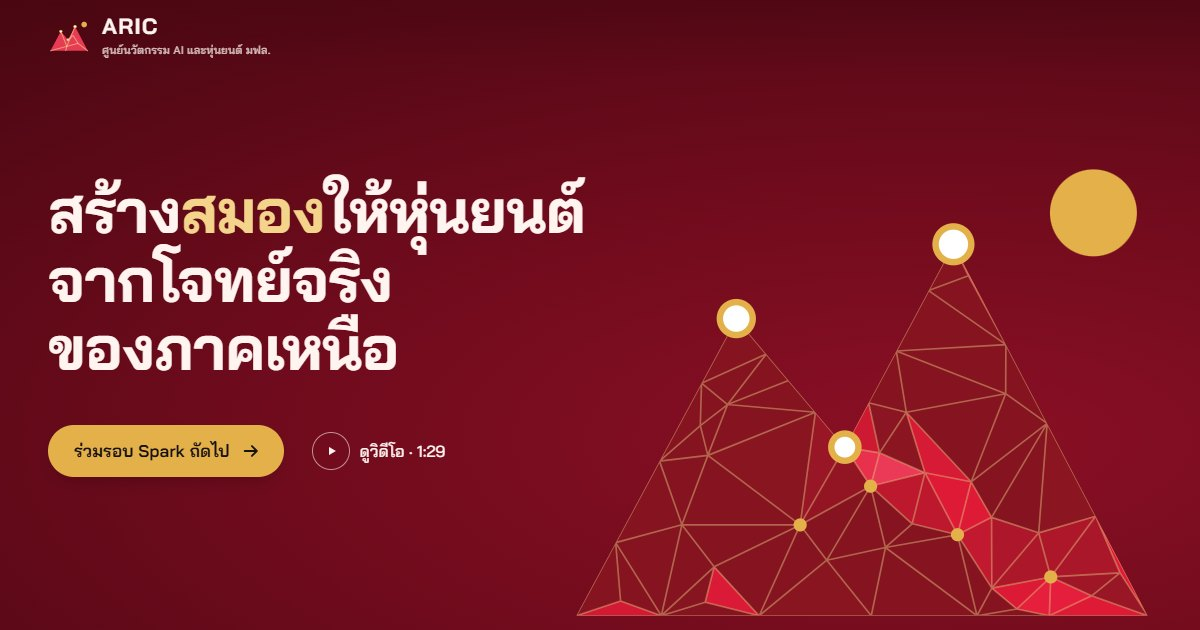
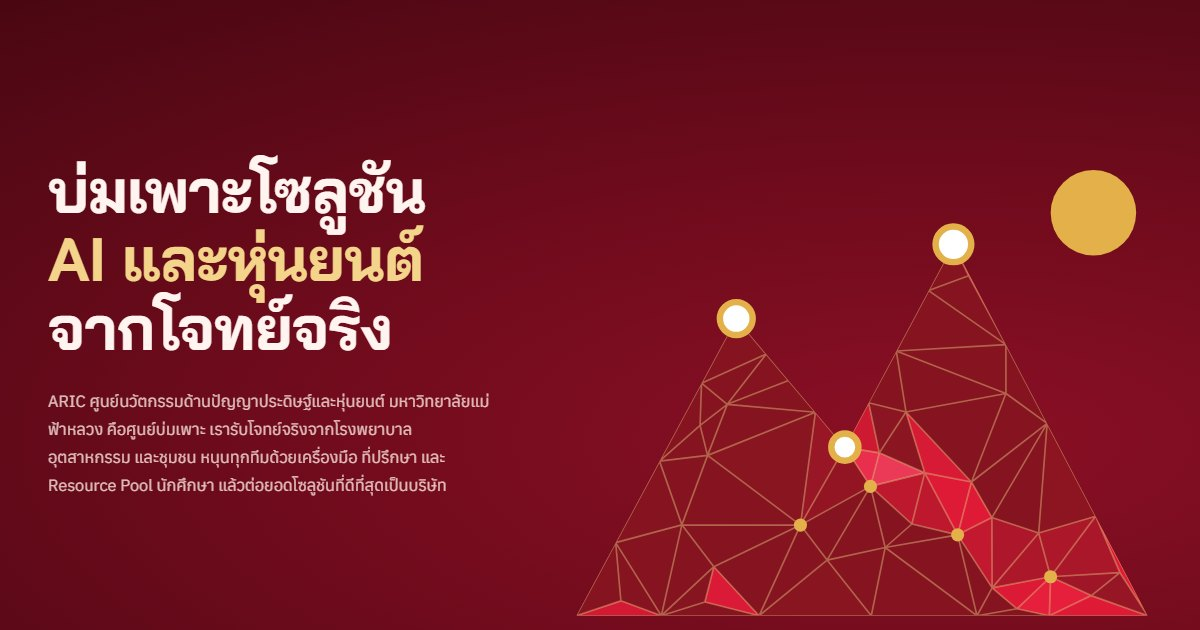
Present ARIC as an incubator for AI & robotics solutions; drop 'the North'; founders section shows tools + Intern Program 2027 support network instead of funding and equity figures
Claude-Session: https://claude.ai/code/session_01K1eXoZs1rxog3XWAKmChgJ

Changed region(s): [[0.0308, 0.2413, 0.4933, 0.7841], [0.0308, 0.0302, 0.2158, 0.0905], [0.8942, 0.3921, 0.925, 0.4222]]

diff --git a/index.html b/index.html
@@ -4,8 +4,8 @@
 <meta charset="utf-8">
 <meta name="viewport" content="width=device-width, initial-scale=1">
 <title>ARIC — ศูนย์นวัตกรรมด้านปัญญาประดิษฐ์และหุ่นยนต์ มหาวิทยาลัยแม่ฟ้าหลวง</title>
-<meta name="description" content="ARIC สร้างสมองให้หุ่นยนต์จากโจทย์จริงของภาคเหนือ — ศูนย์นวัตกรรมด้านปัญญาประดิษฐ์และหุ่นยนต์ มหาวิทยาลัยแม่ฟ้าหลวง เชียงราย">
-<meta property="og:title" content="ARIC — สร้างสมองให้หุ่นยนต์ จากโจทย์จริงของภาคเหนือ">
+<meta name="description" content="ARIC ศูนย์บ่มเพาะโซลูชัน AI และหุ่นยนต์จากโจทย์จริง — ศูนย์นวัตกรรมด้านปัญญาประดิษฐ์และหุ่นยนต์ มหาวิทยาลัยแม่ฟ้าหลวง เชียงราย">
+<meta property="og:title" content="ARIC — ศูนย์บ่มเพาะโซลูชัน AI และหุ่นยนต์ จากโจทย์จริง">
 <meta property="og:description" content="ศูนย์นวัตกรรมด้านปัญญาประดิษฐ์และหุ่นยนต์ มหาวิทยาลัยแม่ฟ้าหลวง · รอบ Spark → Forge → Launch ทุก 4 เดือน">
 <meta property="og:image" content="https://cnacha-mfu.github.io/aric/assets/og.jpg">
 <meta property="og:type" content="website">
@@ -193,22 +193,42 @@ input[type=range]::-moz-range-thumb{width:22px;height:22px;border-radius:50%;bac
 
 /* founders */
 .founders{background:var(--wash)}
-.f-grid{display:grid;grid-template-columns:1.1fr 1fr;gap:clamp(40px,6vw,90px);margin-top:60px}
-.gets{list-style:none;margin:0;padding:0}
-.gets li{display:grid;grid-template-columns:34px 1fr;gap:14px;padding:16px 0;border-top:1px solid var(--rule)}
-.gets li:last-child{border-bottom:1px solid var(--rule)}
-.gets svg{width:30px;height:22px;margin-top:5px}
-.gets b{display:block;font:600 18px/1.4 var(--disp)}
-.gets span{font-size:15.5px;color:var(--ink2);line-height:1.6}
-.share{margin-top:44px}
-.share h3{font-size:22px}
-.share .bar{display:flex;height:54px;gap:3px;margin-top:16px;border-radius:10px;overflow:hidden;font:600 14px/1 var(--disp)}
-.share .bar div{display:flex;align-items:center;justify-content:center;transform-origin:left;transition:transform 1.1s var(--ease)}
-.share .bar div:nth-child(1){flex:15;background:var(--red);color:var(--on-red)}
-.share .bar div:nth-child(2){flex:65;background:var(--gold);color:var(--ink)}
-.share .bar div:nth-child(3){flex:20;background:var(--ink2);color:var(--on-red)}
-.share.pre .bar div{transform:scaleX(0)}
-.share p{font-size:15.5px;color:var(--ink2);line-height:1.65;margin-top:14px}
+.f-grid{display:grid;grid-template-columns:1.25fr 1fr;gap:clamp(40px,6vw,90px);margin-top:60px}
+.sup{position:relative}
+.sup>svg{width:100%;height:auto;display:block;overflow:visible}
+.sup .edge{fill:none;stroke:#D9CFCB;stroke-width:1.6;transition:stroke .35s,stroke-width .35s}
+.sup .mesh{fill:none;stroke:#E7E1DE;stroke-width:1.2}
+.sup .edge.on{stroke:var(--gold);stroke-width:3}
+.sup .spark{fill:none;stroke:var(--gold-l);stroke-width:5;stroke-linecap:round;stroke-dasharray:14 900;stroke-dashoffset:14;opacity:0}
+.sup .edge.on+.spark{opacity:1;animation:sup-run 1.1s cubic-bezier(.16,1,.3,1) infinite}
+@keyframes sup-run{to{stroke-dashoffset:-260}}
+.sup .node{cursor:pointer;outline:none}
+.sup .node circle{transition:r .35s cubic-bezier(.16,1,.3,1),stroke-width .3s}
+.sup .node text{font:500 15px var(--disp);fill:var(--ink2);transition:fill .3s}
+.sup .node:hover text,.sup .node.on text{fill:var(--ink)}
+.sup .node.on circle{r:13}
+.sup .node:focus-visible circle{stroke:var(--gold);stroke-width:4}
+.sup .g-tools circle{fill:var(--gold)}
+.sup .g-pool circle{fill:#fff;stroke:var(--red);stroke-width:3}
+.sup .g-people circle{fill:var(--red-d)}
+.sup .glabel{font:600 13px var(--mono);letter-spacing:.06em;text-transform:uppercase}
+.sup .hub-t{font:700 20px var(--disp);fill:var(--ink)}
+.sup .hub-s{font:400 13px var(--body);fill:var(--mute)}
+.sup .dim .node:not(.in) text{fill:#B9AEA9}
+.sup .dim .node:not(.in) circle{opacity:.35}
+.sup-groups{display:flex;flex-wrap:wrap;gap:8px;margin-top:6px}
+@media (max-width:600px){.sup .node text{display:none}.sup .node circle{r:13}.sup .node.on circle{r:17}.sup .hub-t{font-size:24px}}
+.sup-groups button{display:flex;align-items:center;gap:8px;font:600 14.5px/1 var(--disp);color:var(--ink2);background:var(--paper);border:1.5px solid var(--rule);border-radius:999px;padding:10px 14px;cursor:pointer;transition:border-color .2s,color .2s,background .2s}
+.sup-groups button i{width:12px;height:12px;border-radius:50%;display:block}
+.sup-groups button[aria-pressed="true"]{border-color:var(--ink);color:var(--ink)}
+.sup-cap{margin-top:18px;min-height:96px;padding:18px 20px;border-radius:14px;background:var(--paper);border:1px solid var(--rule)}
+.sup-cap .k{font:600 12.5px var(--mono);letter-spacing:.06em;color:var(--red)}
+.sup-cap b{display:block;font:600 20px/1.35 var(--disp);margin-top:4px}
+.sup-cap p{font-size:15.5px;line-height:1.6;color:var(--ink2);margin-top:4px}
+.pool-cta{display:flex;flex-wrap:wrap;align-items:center;justify-content:space-between;gap:12px 20px;margin-top:22px;padding:18px 20px;border-radius:14px;background:var(--field);color:var(--on-red)}
+.pool-cta p{font-size:15.5px;line-height:1.55;color:var(--on-red2)}
+.pool-cta p b{color:var(--on-red);font:600 17px/1.4 var(--disp);display:block}
+.pool-cta .btn{padding:14px 20px;font-size:15.5px}
 .form{background:var(--paper);border-radius:18px;padding:clamp(24px,3vw,38px);box-shadow:0 30px 60px -40px rgba(0,0,0,.28);align-self:start;position:sticky;top:96px}
 .form h3{font-size:26px;line-height:1.3}
 .form .next{display:flex;align-items:center;gap:10px;margin-top:10px;font-size:15px;color:var(--ink2)}
@@ -230,8 +250,6 @@ fieldset.field{border:0;padding:0;margin:18px 0 0}
 .chips input:focus-visible+span{outline:3px solid var(--gold);outline-offset:2px}
 .form .btn{margin-top:24px;width:100%;justify-content:center}
 .form small{display:block;margin-top:12px;font-size:13px;color:var(--mute);line-height:1.5}
-.targets{margin-top:44px;font-size:15px;color:var(--ink2);line-height:1.7}
-.targets b{font-family:var(--mono);font-weight:500;color:var(--red-d)}
 @media (max-width:900px){.f-grid{grid-template-columns:1fr}.form{position:static}}
 
 /* building */
@@ -295,7 +313,7 @@ footer p{line-height:1.6}
   #engine{height:auto}.engine-sticky{position:relative;height:auto;padding-bottom:60px}
   .engine-body{grid-template-rows:auto}.stage-canvas{height:46vh}
   .stage{opacity:1}.stages .stage:not(.on){display:block}
-  .share.pre .bar div{transform:none}
+  .sup .spark{display:none}
 }
 </style>
 </head>
@@ -348,8 +366,8 @@ footer p{line-height:1.6}
   <canvas id="heroCanvas" aria-label="ภูเขา ARIC ที่มีชีวิต แตะเพื่อเพิ่มโจทย์" role="img"></canvas>
   <div class="wrap">
     <div class="copy">
-      <h1 data-en="<span class=ln>We build the <em>brains</em></span> <span class=ln>robots need —</span> <span class=ln>from real problems</span> <span class=ln>in the North</span>"><span class="ln">สร้าง<em>สมอง</em>ให้หุ่นยนต์</span> <span class="ln">จากโจทย์จริง</span> <span class="ln">ของภาคเหนือ</span></h1>
-      <p class="lede" data-en="ARIC, the AI &amp; Robotics Innovation Center at Mae Fah Luang University, turns real problems from hospitals, industry and communities into AI that people use — and then into companies.">ARIC ศูนย์นวัตกรรมด้านปัญญาประดิษฐ์และหุ่นยนต์ มหาวิทยาลัยแม่ฟ้าหลวง เปลี่ยนโจทย์จริงของโรงพยาบาล อุตสาหกรรม และชุมชน ให้เป็น AI ที่คนใช้จริง แล้วต่อยอดเป็นบริษัท</p>
+      <h1 data-en="<span class=ln>We incubate</span> <span class=ln><em>AI &amp; robotics</em></span> <span class=ln>solutions from</span> <span class=ln>real problems</span>"><span class="ln">บ่มเพาะโซลูชัน</span> <span class="ln"><em>AI และหุ่นยนต์</em></span> <span class="ln">จากโจทย์จริง</span></h1>
+      <p class="lede" data-en="ARIC, the AI &amp; Robotics Innovation Center at Mae Fah Luang University, is an incubator. We take real problems from hospitals, industry and communities, back each team with tools, mentors and a pool of student talent, and grow the best solutions into companies.">ARIC ศูนย์นวัตกรรมด้านปัญญาประดิษฐ์และหุ่นยนต์ มหาวิทยาลัยแม่ฟ้าหลวง คือศูนย์บ่มเพาะ เรารับโจทย์จริงจากโรงพยาบาล อุตสาหกรรม และชุมชน หนุนทุกทีมด้วยเครื่องมือ ที่ปรึกษา และ Resource Pool นักศึกษา แล้วต่อยอดโซลูชันที่ดีที่สุดเป็นบริษัท</p>
       <div class="actions">
         <a class="btn btn-gold" href="#join"><span data-en="Join the next Spark round">ร่วมรอบ Spark ถัดไป</span><svg aria-hidden="true"><use href="#i-arrow"/></svg></a>
         <a class="link-play" href="#film"><i><svg aria-hidden="true"><use href="#i-play"/></svg></i><span data-en="Watch the film · 1:29">ดูวิดีโอ · 1:29</span></a>
@@ -402,7 +420,7 @@ footer p{line-height:1.6}
       <div>
         <ol class="stages" id="stages">
           <li class="stage on"><h3>Spark <span class="mono" data-en="1 MONTH">1 เดือน</span></h3><p data-en="<b>Ignite.</b> An open hackathon on real problems from hospitals, industry and communities; three teams are selected.">จุดประกายไอเดีย: แฮกกาธอนเปิดรับโจทย์จริงจากโรงพยาบาล อุตสาหกรรม และชุมชน <b>คัดเหลือ 3 ทีม</b></p></li>
-          <li class="stage"><h3>Forge <span class="mono" data-en="2 MONTHS">2 เดือน</span></h3><p data-en="<b>฿100,000 per team</b> plus industry mentors, a tech PM, NVIDIA DGX and AI coding agents to build an MVP and test it with real users.">หลอมไอเดียเป็นของจริง: <b>ทุนทีมละ ฿100,000</b> พร้อมที่ปรึกษาจากอุตสาหกรรม Tech PM เครื่อง DGX และ AI coding agent สร้าง MVP แล้วทดสอบกับผู้ใช้จริง</p></li>
+          <li class="stage"><h3>Forge <span class="mono" data-en="2 MONTHS">2 เดือน</span></h3><p data-en="<b>Forge it into something real.</b> Tools, students from the Resource Pool, industry mentors and a tech PM help each team build an MVP and test it with real users.">หลอมไอเดียเป็นของจริง: <b>เครื่องมือ นักศึกษาจาก Resource Pool</b> ที่ปรึกษาจากอุตสาหกรรม และ Tech PM ช่วยทีมสร้าง MVP แล้วทดสอบกับผู้ใช้จริง</p></li>
           <li class="stage"><h3>Launch <span class="mono" data-en="1 MONTH">1 เดือน</span></h3><p data-en="<b>To market.</b> Teams meet customers and investors at national events; the customers they meet become the next round's problems.">ส่งสู่ตลาด: พบลูกค้าและนักลงทุนในงานระดับประเทศ <b>ลูกค้าที่ได้พบกลายเป็นโจทย์ของรอบถัดไป</b></p></li>
         </ol>
         <div class="year">
@@ -421,7 +439,7 @@ footer p{line-height:1.6}
     <p class="lead rv" data-en="One in five Thais is 60 or older (National Statistical Office, 2024). MFU already has schools of medicine, nursing and health science and its own hospital — the place where a brain for care can be built and tested for real.">คนไทยทุก 1 ใน 5 อายุ 60 ปีขึ้นไป (สำนักงานสถิติแห่งชาติ 2567) และ มฟล. มีทั้งสำนักวิชาแพทยศาสตร์ พยาบาลศาสตร์ วิทยาศาสตร์สุขภาพ และโรงพยาบาลของมหาวิทยาลัย — จุดที่สมองเพื่อการดูแลสร้างและทดสอบได้จริง</p>
     <div class="care-grid">
       <article class="uc rv"><img src="assets/img/uc_ward.jpg" alt="หุ่นยนต์ฮิวแมนนอยด์ในหอผู้ป่วย" width="840" height="786" loading="lazy"><div class="t"><span class="bot">AgiBot X2 Ultra</span><h3 data-en="A nurse's assistant on the ward">ผู้ช่วยพยาบาลในหอผู้ป่วย</h3><p data-en="Fetches and delivers medicines and supplies between the nurses' station and the beds, moving safely around people.">รับ–ส่งยาและเวชภัณฑ์ระหว่างเคาน์เตอร์พยาบาลกับเตียง เดินในหอและหลบคนอย่างปลอดภัย</p></div></article>
-      <article class="uc rv"><img src="assets/img/uc_talk.jpg" alt="หุ่นยนต์คุยกับผู้สูงอายุบนเตียง" width="840" height="786" loading="lazy"><div class="t"><span class="bot">AgiBot X2 Ultra</span><h3 data-en="A companion that speaks Northern Thai">เพื่อนคุยภาษาเหนือ เตือนกินยา</h3><p data-en="Chats in the local dialect, reminds patients about medicine, and sends a summary to the nurse or family.">คุยด้วยภาษาเหนือ เตือนยาตามเวลา แล้วสรุปอาการส่งพยาบาลหรือญาติ</p></div></article>
+      <article class="uc rv"><img src="assets/img/uc_talk.jpg" alt="หุ่นยนต์คุยกับผู้สูงอายุบนเตียง" width="840" height="786" loading="lazy"><div class="t"><span class="bot">AgiBot X2 Ultra</span><h3 data-en="A companion that speaks the local dialect">เพื่อนคุยภาษาถิ่น เตือนกินยา</h3><p data-en="Chats in the local dialect, reminds patients about medicine, and sends a summary to the nurse or family.">คุยด้วยภาษาถิ่น เตือนยาตามเวลา แล้วสรุปอาการส่งพยาบาลหรือญาติ</p></div></article>
       <article class="uc rv"><img src="assets/img/uc_night.jpg" alt="หุ่นยนต์สี่ขาเดินตรวจตอนกลางคืน" width="840" height="786" loading="lazy"><div class="t"><span class="bot">AgiBot D1 Edu</span><h3 data-en="A night round that spots falls">เวรดึก ตรวจจับการล้ม</h3><p data-en="Patrols an elderly-care home at night and alerts the nurse to a fall or a patient leaving bed.">เดินตรวจสถานดูแลผู้สูงอายุ เห็นการล้มหรือการลุกจากเตียง แล้วแจ้งพยาบาลทันที</p></div></article>
       <article class="uc rv"><img src="assets/img/uc_coach.jpg" alt="หุ่นยนต์โค้ชออกกำลังผู้สูงวัย" width="840" height="786" loading="lazy"><div class="t"><span class="bot">AgiBot X2 Ultra</span><h3 data-en="An exercise coach for older adults">โค้ชออกกำลังผู้สูงวัย</h3><p data-en="Demonstrates exercises, counts repetitions, watches posture through its camera and adjusts the level for each person.">สาธิตท่า นับจำนวนครั้ง ดูท่าทางผ่านกล้อง และปรับระดับให้เหมาะกับแต่ละคน</p></div></article>
     </div>
@@ -433,25 +451,26 @@ footer p{line-height:1.6}
 <section class="sec founders" id="founders">
   <div class="wrap">
     <h2 class="h2 rv" data-en="For founders, students and developers">สำหรับผู้ก่อตั้ง นักศึกษา และนักพัฒนา</h2>
-    <p class="lead rv" data-en="Bring an idea, or pick up a real problem at Spark. ARIC gives you what a small team in the North rarely gets: money, mentors, serious compute, and a way to customers.">มาพร้อมไอเดีย หรือหยิบโจทย์จริงในรอบ Spark แล้ว ARIC ให้สิ่งที่ทีมเล็กในภาคเหนือหาได้ยาก ทั้งเงินทุน ที่ปรึกษา เครื่องประมวลผลระดับสูง และทางไปสู่ลูกค้า</p>
+    <p class="lead rv" data-en="Bring an idea, or pick up a real problem at Spark. You won't build alone: ARIC surrounds every team with tools, a pool of MFU students to fill the skills you're missing, and people who know the real work.">มาพร้อมไอเดีย หรือหยิบโจทย์จริงในรอบ Spark แล้วคุณจะไม่ต้องสร้างคนเดียว ARIC ล้อมทุกทีมด้วยเครื่องมือ Resource Pool นักศึกษา มฟล. ที่เติมทักษะที่ทีมยังขาด และคนที่รู้หน้างานจริง</p>
     <div class="f-grid">
       <div>
-        <ul class="gets rv">
-          <li><svg aria-hidden="true" style="color:#C8102E"><use href="#mark"/></svg><div><b data-en="฿100,000 per team">ทุนทีมละ ฿100,000</b><span data-en="For the two-month Forge round: mentor time, a developer, and materials.">สำหรับรอบ Forge 2 เดือน: ค่าที่ปรึกษา นักพัฒนา และวัสดุ</span></div></li>
-          <li><svg aria-hidden="true" style="color:#C8102E"><use href="#mark"/></svg><div><b data-en="Mentors who know the work">ที่ปรึกษาที่รู้หน้างาน</b><span data-en="Industry experts, MFU doctors and nurses, and ADT faculty.">ผู้เชี่ยวชาญจากอุตสาหกรรม แพทย์และพยาบาล มฟล. และอาจารย์สำนักวิชาเทคโนโลยีดิจิทัลประยุกต์</span></div></li>
-          <li><svg aria-hidden="true" style="color:#C8102E"><use href="#mark"/></svg><div><b data-en="NVIDIA DGX and AI coding agents">เครื่อง NVIDIA DGX และ AI coding agent</b><span data-en="Shared, so a small budget goes a long way, plus a tech PM beside every team.">ใช้ร่วมจากส่วนกลาง งบทีมเล็กจึงพอ พร้อม Tech PM ประกบทุกทีม</span></div></li>
-          <li><svg aria-hidden="true" style="color:#C8102E"><use href="#mark"/></svg><div><b data-en="Real users and a path to customers">ผู้ใช้จริงและทางไปสู่ลูกค้า</b><span data-en="Test with hospitals and partners, then meet customers and investors at national events.">ทดสอบกับโรงพยาบาลและพันธมิตร แล้วพบลูกค้าและนักลงทุนในงานระดับประเทศ</span></div></li>
-        </ul>
-        <div class="share pre" id="share">
-          <h3 data-en="Your company stays yours">บริษัทยังเป็นของทีม</h3>
-          <div class="bar" role="img" aria-label="MFX 15% ทีมผู้ก่อตั้ง 65–75% ที่ปรึกษา 10–20%"><div>MFX 15%</div><div data-en="Founding team 65–75%">ทีมผู้ก่อตั้ง 65–75%</div><div data-en="Advisors 10–20%">ที่ปรึกษา 10–20%</div></div>
-          <p data-en="When a team forms a company, MFX (Mae Fah Luang University's holding company) takes a fixed 15%, paid for with the centre's resources, not cash, and does not control the board. Terms are announced before the competition; shares vest over 4 years with a 1-year cliff; centre staff hold no personal shares.">เมื่อทีมตั้งบริษัท MFX บริษัทโฮลดิ้งของมหาวิทยาลัยแม่ฟ้าหลวง ถือหุ้นคงที่ 15% ชำระด้วยทรัพยากรของศูนย์ ไม่ใช่เงินสด และไม่คุมบอร์ด · เงื่อนไขประกาศก่อนแข่ง · หุ้น vest 4 ปี cliff 1 ปี · ทีมงานศูนย์ไม่ถือหุ้นส่วนตัว</p>
+        <div class="sup rv" id="sup">
+          <div class="sup-groups" role="group" aria-label="กลุ่มการสนับสนุน">
+            <button type="button" data-g="tools" aria-pressed="false"><i style="background:var(--gold)"></i><span data-en="Tools">เครื่องมือ</span></button>
+            <button type="button" data-g="pool" aria-pressed="false"><i style="background:#fff;border:2.5px solid var(--red)"></i><span data-en="Resource Pool">Resource Pool</span></button>
+            <button type="button" data-g="people" aria-pressed="false"><i style="background:var(--red-d)"></i><span data-en="People who know the work">คนที่รู้หน้างาน</span></button>
+          </div>
+          <svg viewBox="0 0 640 520" id="supSvg" role="group" aria-label="ทีมของคุณอยู่ตรงกลาง ล้อมด้วยเครื่องมือ Resource Pool และคนที่รู้หน้างาน"></svg>
+          <div class="sup-cap" aria-live="polite"><span class="k" id="capK"></span><b id="capT"></b><p id="capD"></p></div>
+          <div class="pool-cta">
+            <p><b data-en="MFU student? Apply for ARIC Intern Program 2027">นักศึกษา มฟล.? สมัคร ARIC Intern Program 2027</b><span data-en="January – April 2027 · four tracks · paid per round">มกราคม – เมษายน 2570 · 4 สายงาน · มีค่าตอบแทนตามรอบงาน</span></p>
+            <a class="btn btn-gold" id="poolApply" href="mailto:nacha.cho@mfu.ac.th?subject=ARIC%3A%20apply%20for%20Intern%20Program%202027"><span data-en="Apply by email">สมัครทางอีเมล</span><svg aria-hidden="true"><use href="#i-arrow"/></svg></a>
+          </div>
         </div>
-        <p class="targets rv" data-en="Five-year targets (2027–2031): <b>45</b> teams incubated · <b>19</b> paying pilot projects · <b>8</b> new companies. These are targets, not results.">เป้าหมาย 5 ปี (2570–2574): บ่มเพาะ <b>45</b> ทีม · โครงการนำร่องที่มีผู้จ่ายเงิน <b>19</b> โครงการ · บริษัทใหม่ <b>8</b> บริษัท — เป็นเป้าหมาย ยังไม่ใช่ผลงาน</p>
       </div>
       <form class="form" id="join" novalidate>
         <h3 data-en="Get notified when Spark opens">รับแจ้งเมื่อเปิดรอบ Spark</h3>
-        <p class="next"><span data-en="First round:">รอบแรก:</span> <span class="mono" data-en="date to be announced">รอประกาศวันที่</span></p>
+        <p class="next"><span data-en="First round:">รอบแรก:</span> <span class="mono" data-en="Jan – Apr 2027">ม.ค. – เม.ย. 2570</span></p>
         <div class="field"><label for="fName" data-en="Your name">ชื่อ</label><input id="fName" name="name" autocomplete="name" required></div>
         <div class="field"><label for="fEmail" data-en="Email">อีเมล</label><input id="fEmail" name="email" type="email" autocomplete="email" required inputmode="email" data-en-ph="you@example.com" placeholder="you@example.com"><span class="err" id="fEmailErr" aria-live="polite"></span></div>
         <fieldset class="field"><legend data-en="I am">ฉันคือ</legend>
@@ -477,7 +496,7 @@ footer p{line-height:1.6}
     <p class="lead rv" data-en="Open at the bottom, protected at the top: the public walks into Launchpad; research stays quiet on Engine.">เปิดที่ชั้นล่าง ปิดที่ชั้นบน: คนทั่วไปเดินเข้า Launchpad ได้ ส่วนงานวิจัยเงียบสงบอยู่ที่ Engine</p>
     <div class="floors" id="floors">
       <div class="floor"><button type="button" aria-expanded="false"><span class="no">4</span><span class="nm">Bridge</span><span class="ds" data-en="Executives &amp; partners">ผู้บริหารและพันธมิตร</span><svg class="chev" viewBox="0 0 20 20" aria-hidden="true"><use href="#i-plus"/></svg></button>
-        <div class="panel"><div><div class="inner"><img src="assets/img/floor4.jpg" alt="ภาพแนวคิดชั้น 4 Bridge" width="1531" height="655" loading="lazy"><ul><li data-en="<b>Partner Map</b> of partners and portfolio companies across the North, the Mekong region and the world"><b>Partner Map</b> พันธมิตรและบริษัทในพอร์ต ทั้งภาคเหนือ ลุ่มน้ำโขง และทั่วโลก</li><li data-en="<b>Board room</b> and a signing table for partnerships"><b>ห้องประชุมผู้บริหาร</b> และโต๊ะลงนามความร่วมมือ</li><li data-en="<b>Office</b> for the centre team and visiting researchers"><b>สำนักงาน</b> ทีมศูนย์และนักวิจัยรับเชิญ</li></ul></div></div></div></div>
+        <div class="panel"><div><div class="inner"><img src="assets/img/floor4.jpg" alt="ภาพแนวคิดชั้น 4 Bridge" width="1531" height="655" loading="lazy"><ul><li data-en="<b>Partner Map</b> of partners and portfolio companies in Thailand and abroad"><b>Partner Map</b> พันธมิตรและบริษัทในพอร์ต ทั้งในประเทศและต่างประเทศ</li><li data-en="<b>Board room</b> and a signing table for partnerships"><b>ห้องประชุมผู้บริหาร</b> และโต๊ะลงนามความร่วมมือ</li><li data-en="<b>Office</b> for the centre team and visiting researchers"><b>สำนักงาน</b> ทีมศูนย์และนักวิจัยรับเชิญ</li></ul></div></div></div></div>
       <div class="floor"><button type="button" aria-expanded="false"><span class="no">3</span><span class="nm">Engine</span><span class="ds" data-en="Research labs &amp; robotics arena">ห้องวิจัยและสนามหุ่นยนต์</span><svg class="chev" viewBox="0 0 20 20" aria-hidden="true"><use href="#i-plus"/></svg></button>
         <div class="panel"><div><div class="inner"><img src="assets/img/floor3.jpg" alt="ภาพแนวคิดชั้น 3 Engine" width="1536" height="1024" loading="lazy"><ul><li data-en="<b>AI research studio</b> for 16 researchers"><b>ห้องวิจัย AI</b> สำหรับนักวิจัย 16 คน</li><li data-en="<b>Robotics &amp; drone arena</b> with a viewing gallery"><b>สนามหุ่นยนต์และโดรน</b> พร้อมระเบียงชม</li><li data-en="<b>GPU machine room</b> and a multimedia studio"><b>ห้องเครื่อง GPU</b> และสตูดิโอสื่อผสม</li></ul></div></div></div></div>
       <div class="floor"><button type="button" aria-expanded="false"><span class="no">2</span><span class="nm">Academy</span><span class="ds" data-en="Six training rooms, up to 120 seats">ห้องฝึกอบรม 6 ห้อง รวม 120 ที่นั่ง</span><svg class="chev" viewBox="0 0 20 20" aria-hidden="true"><use href="#i-plus"/></svg></button>
@@ -492,7 +511,7 @@ footer p{line-height:1.6}
 <!-- FILM -->
 <section class="sec film" id="film">
   <div class="wrap">
-    <h2 class="h2 rv" data-en="The North can build its own digital future">ภาคเหนือสร้างอนาคตดิจิทัลของตัวเองได้</h2>
+    <h2 class="h2 rv" data-en="From real problems to real companies">จากโจทย์จริง สู่บริษัทจริง</h2>
     <div class="player rv" id="player">
       <video id="video" src="assets/film/aric_film.mp4" poster="assets/film/poster.jpg" preload="none" playsinline controls></video>
       <button class="play" type="button" aria-label="เล่นวิดีโอแนะนำ ARIC"><i><svg aria-hidden="true"><use href="#i-play"/></svg></i></button>
@@ -578,7 +597,7 @@ function applyLang(l) {
   lang = l; document.documentElement.lang = l; localStorage.setItem('aric-lang', l);
   $$('[data-en]').forEach(el => { el.innerHTML = l === 'en' ? el.dataset.en : el.dataset.th; });
   $$('.lang button').forEach(b => b.setAttribute('aria-pressed', String(b.dataset.lang === l)));
-  renderSlots(); updateSeedLabel(); readout(); setStageNote();
+  renderSlots(); updateSeedLabel(); readout(); setStageNote(); if (typeof buildSup === 'function' && supSvg) buildSup();
 }
 $$('.lang button').forEach(b => b.addEventListener('click', () => applyLang(b.dataset.lang)));
 
@@ -903,6 +922,66 @@ const player = $('#player'), video = $('#video');
 $('.play', player).addEventListener('click', () => { video.play(); });
 video.addEventListener('play', () => player.classList.add('playing'));
 
+
+/* ---------------- support network (founders) ---------------- */
+const SUP = [
+  { g: 'tools', th: ['NVIDIA DGX', 'เครื่องประมวลผล AI ระดับสูง ใช้ร่วมจากส่วนกลาง ทีมเล็กก็เทรนโมเดลจริงได้'], en: ['NVIDIA DGX', 'High-end AI compute shared from the centre, so even a small team can train real models.'] },
+  { g: 'tools', th: ['AI coding agent', 'ผู้ช่วยเขียนโค้ดที่ทำให้ทีมสองสามคนสร้างงานได้เร็วเท่าทีมใหญ่'], en: ['AI coding agents', 'Coding assistants that let a team of two or three build at the pace of a much larger one.'] },
+  { g: 'tools', th: ['ห้องปฏิบัติการและพื้นที่ทดสอบ', 'พื้นที่ทำงาน แพลตฟอร์มหุ่นยนต์ และเซนเซอร์สำหรับทดลองกับของจริง'], en: ['Labs & test space', 'Workspace, robot platforms and sensors to try ideas on real hardware.'] },
+  { g: 'pool', th: ['AI & Software', 'นักศึกษาที่ช่วยสร้างโมเดล AI ข้อมูล เว็บ และแอป'], en: ['AI & Software', 'Students who help build AI models, data pipelines, web and apps.'], track: 'AI & Software' },
+  { g: 'pool', th: ['หุ่นยนต์และระบบ', 'นักศึกษาที่ช่วยงาน ROS 2 ระบบมองเห็น IoT และดูแลเครื่อง GPU'], en: ['Robotics & Systems', 'Students for ROS 2, computer vision, IoT and keeping the GPUs running.'], track: 'Robotics & Systems' },
+  { g: 'pool', th: ['ออกแบบและสื่อสาร', 'นักศึกษาที่ช่วยออกแบบ UX/UI กราฟิก คอนเทนต์ และวิดีโอเดโม'], en: ['Design & Communications', 'Students for UX/UI, graphics, content and demo videos.'], track: 'Design & Communications' },
+  { g: 'pool', th: ['กิจกรรมและธุรกิจ', 'นักศึกษาที่ช่วยงานแฮกกาธอน บูธ ชุมชน และการพบลูกค้า'], en: ['Events & Business', 'Students for hackathons, booths, community and customer meetings.'], track: 'Events & Business' },
+  { g: 'people', th: ['Tech PM ประกบทุกทีม', 'คนที่อยู่กับทีมทุกวัน ช่วยวางแผน ปลดล็อกปัญหา และส่งงานให้ทัน'], en: ['A tech PM beside every team', 'Someone with the team every day: planning, unblocking and keeping delivery on track.'] },
+  { g: 'people', th: ['ที่ปรึกษาจากอุตสาหกรรม', 'ผู้เชี่ยวชาญที่รู้ว่าลูกค้าจริงต้องการอะไร'], en: ['Industry mentors', 'Experts who know what real customers need.'] },
+  { g: 'people', th: ['แพทย์และพยาบาล มฟล.', 'ผู้รู้หน้างานด้านการดูแลผู้ป่วย ช่วยให้สมองหุ่นยนต์ปลอดภัยและใช้ได้จริง'], en: ['MFU doctors & nurses', 'Care professionals who keep robot brains safe and genuinely useful.'] },
+  { g: 'people', th: ['ผู้ใช้และลูกค้าจริง', 'โรงพยาบาลและพันธมิตรให้ทดสอบ แล้วพบลูกค้าและนักลงทุนในงานระดับประเทศ'], en: ['Real users & customers', 'Hospitals and partners to test with, then customers and investors at national events.'] },
+];
+const GNAME = { tools: ['เครื่องมือ', 'TOOLS'], pool: ['RESOURCE POOL', 'RESOURCE POOL'], people: ['คนที่รู้หน้างาน', 'PEOPLE'] };
+const GCOL = { tools: '#9A6C14', pool: '#C8102E', people: '#7A0C1E' };
+const supSvg = $('#supSvg'), CX = 320, CY = 262, R = 182;
+// angles (deg, 0 = right, clockwise): three arcs with gaps
+const ANG = { tools: [-150, -120, -90], pool: [-48, -16, 16, 48], people: [96, 128, 160, 192] };
+let supActive = -1, supGroup = null, supAuto = true;
+function polar(a, r) { const t = a * Math.PI / 180; return [CX + r * Math.cos(t), CY + r * Math.sin(t)]; }
+function buildSup() {
+  let h = '', idx = { tools: 0, pool: 0, people: 0 };
+  const pos = SUP.map(n => polar(ANG[n.g][idx[n.g]++], R));
+  // mesh between neighbours in each group
+  Object.keys(ANG).forEach(g => { const ids = SUP.map((n, i) => n.g === g ? i : -1).filter(i => i >= 0);
+    for (let k = 0; k < ids.length - 1; k++) h += `<path class="mesh" d="M${pos[ids[k]][0]} ${pos[ids[k]][1]} L${pos[ids[k + 1]][0]} ${pos[ids[k + 1]][1]}"/>`; });
+  SUP.forEach((n, i) => { const [x, y] = pos[i], mx = (CX + x) / 2 + (y - CY) * .12, my = (CY + y) / 2 - (x - CX) * .12;
+    h += `<path class="edge" id="se${i}" d="M${CX} ${CY} Q${mx.toFixed(1)} ${my.toFixed(1)} ${x.toFixed(1)} ${y.toFixed(1)}"/><path class="spark" d="M${CX} ${CY} Q${mx.toFixed(1)} ${my.toFixed(1)} ${x.toFixed(1)} ${y.toFixed(1)}"/>`; });
+  SUP.forEach((n, i) => { const [x, y] = pos[i], right = x > CX + 4, left = x < CX - 4, lab = n[lang][0];
+    const tx = right ? x + 18 : left ? x - 18 : x, ty = y + (Math.abs(x - CX) < 40 ? (y > CY ? 30 : -20) : 5);
+    h += `<g class="node g-${n.g}" data-i="${i}" tabindex="0" role="button" aria-label="${lab}"><circle cx="${x.toFixed(1)}" cy="${y.toFixed(1)}" r="10"/><text x="${tx.toFixed(1)}" y="${ty.toFixed(1)}" text-anchor="${right ? 'start' : left ? 'end' : 'middle'}">${lab}</text></g>`; });
+  h += `<g aria-hidden="true"><circle cx="${CX}" cy="${CY}" r="74" fill="#fff" stroke="#E7E1DE" stroke-width="1.5"/><svg x="${CX - 38}" y="${CY - 58}" width="76" height="54" viewBox="30 72 472 338" style="color:#C8102E"><use href="#mark"/></svg>
+    <text class="hub-t" x="${CX}" y="${CY + 22}" text-anchor="middle">${lang === 'en' ? 'Your team' : 'ทีมของคุณ'}</text><text class="hub-s" x="${CX}" y="${CY + 42}" text-anchor="middle">founder · tech lead · dev</text></g>`;
+  supSvg.innerHTML = h;
+  $$('.node', supSvg).forEach(el => {
+    const i = +el.dataset.i, go = () => { supAuto = false; setSup(i); };
+    el.addEventListener('mouseenter', go); el.addEventListener('click', go); el.addEventListener('focus', go);
+    el.addEventListener('keydown', e => { if (e.key === 'Enter' || e.key === ' ') { e.preventDefault(); go(); } });
+  });
+  setSup(supActive < 0 ? 0 : supActive, true);
+}
+function setSup(i, quiet) {
+  supActive = i; const n = SUP[i], g = n.g;
+  $$('.edge', supSvg).forEach((e, k) => e.classList.toggle('on', k === i));
+  $$('.node', supSvg).forEach((e, k) => { e.classList.toggle('on', k === i); e.classList.toggle('in', supGroup ? SUP[k].g === supGroup : true); });
+  supSvg.classList.toggle('dim', !!supGroup);
+  $('#capK').textContent = GNAME[g][lang === 'en' ? 1 : 0]; $('#capT').textContent = n[lang][0]; $('#capD').textContent = n[lang][1];
+  const track = n.track || 'Student Pool';
+  $('#poolApply').href = 'mailto:nacha.cho@mfu.ac.th?subject=' + encodeURIComponent('ARIC: apply for ' + track);
+}
+$$('.sup-groups button').forEach(b => b.addEventListener('click', () => {
+  supAuto = false; const g = b.dataset.g; supGroup = supGroup === g ? null : g;
+  $$('.sup-groups button').forEach(o => o.setAttribute('aria-pressed', String(o.dataset.g === supGroup)));
+  setSup(supGroup ? SUP.findIndex(n => n.g === supGroup) : supActive);
+}));
+// gentle tour until the visitor touches it
+if (!reduce) setInterval(() => { if (!supAuto) return; const r = $('#sup').getBoundingClientRect(); if (r.top < innerHeight && r.bottom > 0) setSup((supActive + 1) % SUP.length); }, 2600);
+
 /* ---------------- sign-up (mailto) ---------------- */
 const form = $('#join');
 form.addEventListener('submit', e => {
@@ -923,9 +1002,9 @@ form.addEventListener('submit', e => {
 if (!reduce) {
   const io = new IntersectionObserver(es => es.forEach(en => { if (en.isIntersecting) { en.target.classList.remove('pre'); io.unobserve(en.target); } }), { threshold: .15, rootMargin: '0px 0px -6% 0px' });
   $$('.rv').forEach((el, i) => { if (el.getBoundingClientRect().top > innerHeight) { el.classList.add('pre'); el.style.transitionDelay = (i % 4) * 70 + 'ms'; io.observe(el); } });
-  io.observe($('#share'));
-} else { $('#share').classList.remove('pre'); }
+}
 
+buildSup();
 applyLang(lang);
 })();
 </script>
